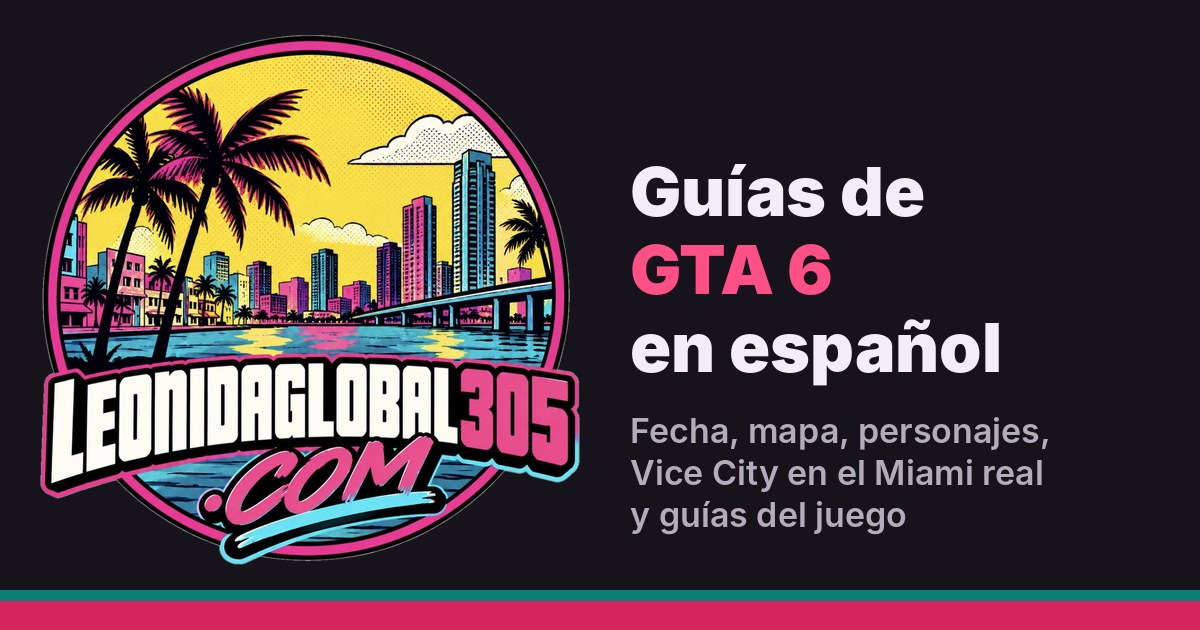
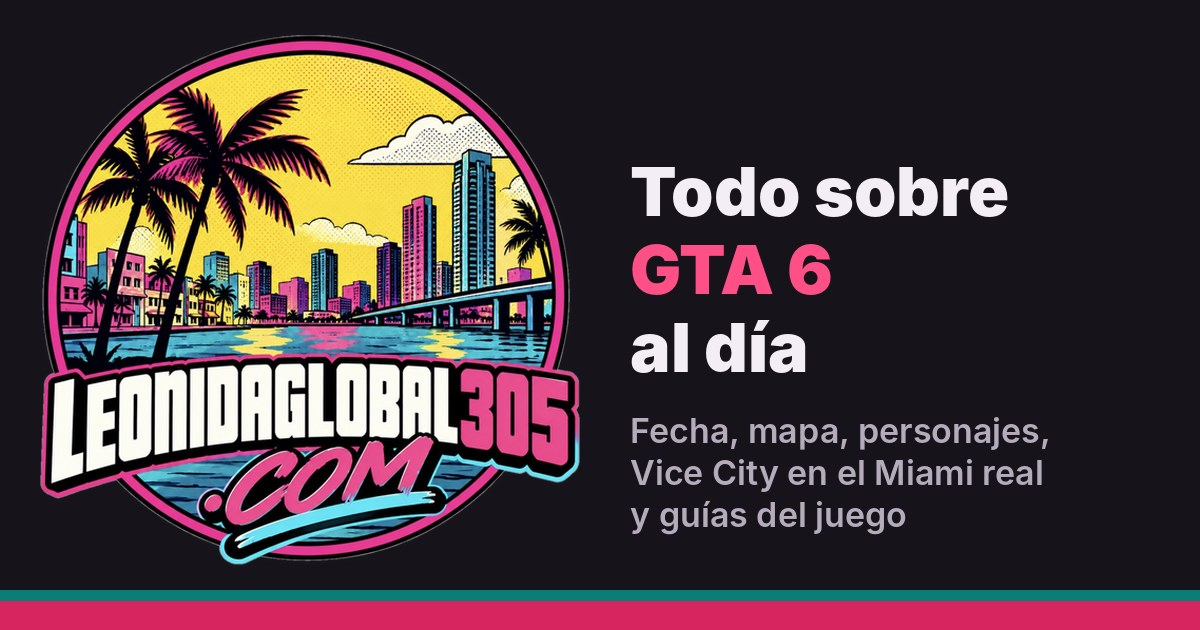
Quitar las menciones a 'en español' del sitio
Claude-Session: https://claude.ai/code/session_01BTEKrURhjZRdHEbAFFazb8

Changed region(s): [[0.5242, 0.2413, 0.8633, 0.3619], [0.5242, 0.5127, 0.8325, 0.6333]]

diff --git a/index.html b/index.html
@@ -1,4 +1,4 @@
-<!doctype html><html lang="es"><head><meta charset="utf-8"><meta name="viewport" content="width=device-width,initial-scale=1,viewport-fit=cover"><title>Leonida Global 305</title><meta name="claude:viewport-fit-sides" content="cover"><meta name="description" content="Guías de GTA 6 en español: fecha, precio, mapa de Leonida y personajes."><link rel="canonical" href="https://leonidaglobal305.com/"><meta property="og:title" content="Leonida Global 305"><meta property="og:description" content="Guías de GTA 6 en español: fecha, precio, mapa de Leonida y personajes."><meta property="og:type" content="website"><meta property="og:locale" content="es_ES"><meta property="og:image" content="https://leonidaglobal305.com/img/og-image.jpg"><meta property="og:image:width" content="1200"><meta property="og:image:height" content="630"><meta property="og:site_name" content="Leonida Global 305"><meta property="og:url" content="https://leonidaglobal305.com/"><meta name="twitter:card" content="summary_large_image"><meta name="twitter:title" content="Leonida Global 305"><meta name="twitter:description" content="Guías de GTA 6 en español: fecha, precio, mapa de Leonida y personajes."><meta name="twitter:image" content="https://leonidaglobal305.com/img/og-image.jpg"><link rel="icon" href="favicon.ico" sizes="any"><link rel="icon" type="image/png" sizes="32x32" href="img/favicon-32.png"><link rel="apple-touch-icon" href="img/apple-touch-icon.png"><meta name="theme-color" content="#d7265f"><link rel="preconnect" href="https://fonts.googleapis.com"><link rel="stylesheet" href="https://fonts.googleapis.com/css2?family=Anton&family=Source+Sans+3:wght@400;600;700&family=JetBrains+Mono:wght@500&display=swap"><style>
+<!doctype html><html lang="es"><head><meta charset="utf-8"><meta name="viewport" content="width=device-width,initial-scale=1,viewport-fit=cover"><title>Leonida Global 305</title><meta name="claude:viewport-fit-sides" content="cover"><meta name="description" content="Guías de GTA 6: fecha, precio, mapa de Leonida, personajes, música y Vice City en el Miami real."><link rel="canonical" href="https://leonidaglobal305.com/"><meta property="og:title" content="Leonida Global 305"><meta property="og:description" content="Guías de GTA 6: fecha, precio, mapa de Leonida, personajes, música y Vice City en el Miami real."><meta property="og:type" content="website"><meta property="og:locale" content="es_ES"><meta property="og:image" content="https://leonidaglobal305.com/img/og-image.jpg"><meta property="og:image:width" content="1200"><meta property="og:image:height" content="630"><meta property="og:site_name" content="Leonida Global 305"><meta property="og:url" content="https://leonidaglobal305.com/"><meta name="twitter:card" content="summary_large_image"><meta name="twitter:title" content="Leonida Global 305"><meta name="twitter:description" content="Guías de GTA 6: fecha, precio, mapa de Leonida, personajes, música y Vice City en el Miami real."><meta name="twitter:image" content="https://leonidaglobal305.com/img/og-image.jpg"><link rel="icon" href="favicon.ico" sizes="any"><link rel="icon" type="image/png" sizes="32x32" href="img/favicon-32.png"><link rel="apple-touch-icon" href="img/apple-touch-icon.png"><meta name="theme-color" content="#d7265f"><link rel="preconnect" href="https://fonts.googleapis.com"><link rel="stylesheet" href="https://fonts.googleapis.com/css2?family=Anton&family=Source+Sans+3:wght@400;600;700&family=JetBrains+Mono:wght@500&display=swap"><style>
 /* Layout: cartel de carretera de Florida — titulares tipo billboard, columna de lectura estrecha, franja de "millas" para datos */
 :root{
   --bg:#fbf6f1; --surface:#ffffff; --fg:#1d1a22; --muted:#5f5966;
@@ -122,8 +122,8 @@ body{top:0!important}
   </div>
 </div></header>
 <main class="wrap">
-<span class="mile">Guías de GTA 6 en español</span>
-<h1>Todo GTA&nbsp;6, claro y en español</h1>
+<span class="mile">Guías de GTA 6</span>
+<h1>Todo GTA&nbsp;6, claro y al día</h1>
 <p class="lede">Fecha, precio, mapa de Leonida, personajes y, desde el día del lanzamiento, guías de misiones, robos, autos y secretos.</p>
 <div class="count" id="count" aria-live="polite">
   <div><b id="d">--</b><small>días</small></div>
@@ -162,7 +162,7 @@ body{top:0!important}
 </script></main>
 <footer><div class="wrap">
   <p class="autor">Creado por <strong>Ernesto</strong> · Síguelo en X: <a href="https://x.com/elchinyto_tech" target="_blank" rel="me noopener">@elchinyto_tech</a></p>
-  <p>Leonida Global 305 es un sitio de fans en español. No está afiliado a Rockstar Games ni a Take-Two Interactive. Grand Theft Auto es marca de sus dueños.</p>
+  <p>Leonida Global 305 es un sitio de fans. No está afiliado a Rockstar Games ni a Take-Two Interactive. Grand Theft Auto es marca de sus dueños.</p>
   <p>Algunos enlaces son de afiliado: si compras a través de ellos, el sitio recibe una pequeña comisión sin costo extra para ti.</p>
 </div></footer>
 <div id="gt" aria-hidden="true"></div>

diff --git a/todo-lo-confirmado.html b/todo-lo-confirmado.html
@@ -280,7 +280,7 @@ body{top:0!important}
 </aside><p class="creditos">Información basada en: IGN, Famitsu, Kinda Funny, Game Informer, Dazed, LOVE, Bloomberg (Jason Schreier), GTAVice.net, iGrandTheftAuto, Inven Global.</p></main>
 <footer><div class="wrap">
   <p class="autor">Creado por <strong>Ernesto</strong> · Síguelo en X: <a href="https://x.com/elchinyto_tech" target="_blank" rel="me noopener">@elchinyto_tech</a></p>
-  <p>Leonida Global 305 es un sitio de fans en español. No está afiliado a Rockstar Games ni a Take-Two Interactive. Grand Theft Auto es marca de sus dueños.</p>
+  <p>Leonida Global 305 es un sitio de fans. No está afiliado a Rockstar Games ni a Take-Two Interactive. Grand Theft Auto es marca de sus dueños.</p>
   <p>Algunos enlaces son de afiliado: si compras a través de ellos, el sitio recibe una pequeña comisión sin costo extra para ti.</p>
 </div></footer>
 <div id="gt" aria-hidden="true"></div>

diff --git a/mapa-miami-real.html b/mapa-miami-real.html
@@ -175,7 +175,7 @@ body{top:0!important}
 </script><p class="creditos">Información basada en: GTA BOOM, Miami New Times, Kotaku, VGC, GamesRadar, Portal Viciados y @samchrme.</p></main>
 <footer><div class="wrap">
   <p class="autor">Creado por <strong>Ernesto</strong> · Síguelo en X: <a href="https://x.com/elchinyto_tech" target="_blank" rel="me noopener">@elchinyto_tech</a></p>
-  <p>Leonida Global 305 es un sitio de fans en español. No está afiliado a Rockstar Games ni a Take-Two Interactive. Grand Theft Auto es marca de sus dueños.</p>
+  <p>Leonida Global 305 es un sitio de fans. No está afiliado a Rockstar Games ni a Take-Two Interactive. Grand Theft Auto es marca de sus dueños.</p>
   <p>Algunos enlaces son de afiliado: si compras a través de ellos, el sitio recibe una pequeña comisión sin costo extra para ti.</p>
 </div></footer>
 <div id="gt" aria-hidden="true"></div>

diff --git a/fecha-precio-ediciones.html b/fecha-precio-ediciones.html
@@ -185,7 +185,7 @@ body{top:0!important}
 </aside><p class="creditos">Información basada en: Rockstar Games, Take-Two Interactive, Gfinity, tbreak, SVG, GTA Intel.</p></main>
 <footer><div class="wrap">
   <p class="autor">Creado por <strong>Ernesto</strong> · Síguelo en X: <a href="https://x.com/elchinyto_tech" target="_blank" rel="me noopener">@elchinyto_tech</a></p>
-  <p>Leonida Global 305 es un sitio de fans en español. No está afiliado a Rockstar Games ni a Take-Two Interactive. Grand Theft Auto es marca de sus dueños.</p>
+  <p>Leonida Global 305 es un sitio de fans. No está afiliado a Rockstar Games ni a Take-Two Interactive. Grand Theft Auto es marca de sus dueños.</p>
   <p>Algunos enlaces son de afiliado: si compras a través de ellos, el sitio recibe una pequeña comisión sin costo extra para ti.</p>
 </div></footer>
 <div id="gt" aria-hidden="true"></div>

diff --git a/equipo-gta-6.html b/equipo-gta-6.html
@@ -173,7 +173,7 @@ body{top:0!important}
 </div><p class="creditos">Información basada en: RTINGS, TechRadar, GamesRadar, Windows Central, Turtle Beach, PC Gamer.</p></main>
 <footer><div class="wrap">
   <p class="autor">Creado por <strong>Ernesto</strong> · Síguelo en X: <a href="https://x.com/elchinyto_tech" target="_blank" rel="me noopener">@elchinyto_tech</a></p>
-  <p>Leonida Global 305 es un sitio de fans en español. No está afiliado a Rockstar Games ni a Take-Two Interactive. Grand Theft Auto es marca de sus dueños.</p>
+  <p>Leonida Global 305 es un sitio de fans. No está afiliado a Rockstar Games ni a Take-Two Interactive. Grand Theft Auto es marca de sus dueños.</p>
   <p>Algunos enlaces son de afiliado: si compras a través de ellos, el sitio recibe una pequeña comisión sin costo extra para ti.</p>
 </div></footer>
 <div id="gt" aria-hidden="true"></div>

diff --git a/musica-radios-gta-6.html b/musica-radios-gta-6.html
@@ -166,7 +166,7 @@ body{top:0!important}
 </aside><p class="creditos">Información basada en: Rockstar Games, Forbes, Kotaku, Consequence, G2A News.</p></main>
 <footer><div class="wrap">
   <p class="autor">Creado por <strong>Ernesto</strong> · Síguelo en X: <a href="https://x.com/elchinyto_tech" target="_blank" rel="me noopener">@elchinyto_tech</a></p>
-  <p>Leonida Global 305 es un sitio de fans en español. No está afiliado a Rockstar Games ni a Take-Two Interactive. Grand Theft Auto es marca de sus dueños.</p>
+  <p>Leonida Global 305 es un sitio de fans. No está afiliado a Rockstar Games ni a Take-Two Interactive. Grand Theft Auto es marca de sus dueños.</p>
   <p>Algunos enlaces son de afiliado: si compras a través de ellos, el sitio recibe una pequeña comisión sin costo extra para ti.</p>
 </div></footer>
 <div id="gt" aria-hidden="true"></div>

diff --git a/personajes.html b/personajes.html
@@ -155,7 +155,7 @@ body{top:0!important}
 </aside><p class="creditos">Información basada en: Rockstar Games, TechRadar, PC Gamer, Dazed, LOVE.</p></main>
 <footer><div class="wrap">
   <p class="autor">Creado por <strong>Ernesto</strong> · Síguelo en X: <a href="https://x.com/elchinyto_tech" target="_blank" rel="me noopener">@elchinyto_tech</a></p>
-  <p>Leonida Global 305 es un sitio de fans en español. No está afiliado a Rockstar Games ni a Take-Two Interactive. Grand Theft Auto es marca de sus dueños.</p>
+  <p>Leonida Global 305 es un sitio de fans. No está afiliado a Rockstar Games ni a Take-Two Interactive. Grand Theft Auto es marca de sus dueños.</p>
   <p>Algunos enlaces son de afiliado: si compras a través de ellos, el sitio recibe una pequeña comisión sin costo extra para ti.</p>
 </div></footer>
 <div id="gt" aria-hidden="true"></div>

diff --git a/mapa-leonida.html b/mapa-leonida.html
@@ -151,7 +151,7 @@ body{top:0!important}
 </aside><p class="creditos">Información basada en: Rockstar Games, LOVE, Beebom, All Things How.</p></main>
 <footer><div class="wrap">
   <p class="autor">Creado por <strong>Ernesto</strong> · Síguelo en X: <a href="https://x.com/elchinyto_tech" target="_blank" rel="me noopener">@elchinyto_tech</a></p>
-  <p>Leonida Global 305 es un sitio de fans en español. No está afiliado a Rockstar Games ni a Take-Two Interactive. Grand Theft Auto es marca de sus dueños.</p>
+  <p>Leonida Global 305 es un sitio de fans. No está afiliado a Rockstar Games ni a Take-Two Interactive. Grand Theft Auto es marca de sus dueños.</p>
   <p>Algunos enlaces son de afiliado: si compras a través de ellos, el sitio recibe una pequeña comisión sin costo extra para ti.</p>
 </div></footer>
 <div id="gt" aria-hidden="true"></div>

diff --git a/leaks-cyberleek.html b/leaks-cyberleek.html
@@ -183,7 +183,7 @@ body{top:0!important}
 </aside><p class="creditos">Información basada en: Dexerto, iGeeksBlog, Tech Insider, BBC.</p></main>
 <footer><div class="wrap">
   <p class="autor">Creado por <strong>Ernesto</strong> · Síguelo en X: <a href="https://x.com/elchinyto_tech" target="_blank" rel="me noopener">@elchinyto_tech</a></p>
-  <p>Leonida Global 305 es un sitio de fans en español. No está afiliado a Rockstar Games ni a Take-Two Interactive. Grand Theft Auto es marca de sus dueños.</p>
+  <p>Leonida Global 305 es un sitio de fans. No está afiliado a Rockstar Games ni a Take-Two Interactive. Grand Theft Auto es marca de sus dueños.</p>
   <p>Algunos enlaces son de afiliado: si compras a través de ellos, el sitio recibe una pequeña comisión sin costo extra para ti.</p>
 </div></footer>
 <div id="gt" aria-hidden="true"></div>

diff --git a/_fuente/build.py b/_fuente/build.py
@@ -158,7 +158,7 @@ def shell(slug, title, desc, body, full_doc=True):
 <main class="wrap">{body}</main>
 <footer><div class="wrap">
   <p class="autor">Creado por <strong>Ernesto</strong> · Síguelo en X: <a href="https://x.com/elchinyto_tech" target="_blank" rel="me noopener">@elchinyto_tech</a></p>
-  <p>{SITE} es un sitio de fans en español. No está afiliado a Rockstar Games ni a Take-Two Interactive. Grand Theft Auto es marca de sus dueños.</p>
+  <p>{SITE} es un sitio de fans. No está afiliado a Rockstar Games ni a Take-Two Interactive. Grand Theft Auto es marca de sus dueños.</p>
   <p>Algunos enlaces son de afiliado: si compras a través de ellos, el sitio recibe una pequeña comisión sin costo extra para ti.</p>
 </div></footer>
 <div id="gt" aria-hidden="true"></div>
@@ -216,8 +216,8 @@ COLECCIONISTA = """
 
 # ---------- Inicio ----------
 index = f"""
-<span class="mile">Guías de GTA 6 en español</span>
-<h1>Todo GTA&nbsp;6, claro y en español</h1>
+<span class="mile">Guías de GTA 6</span>
+<h1>Todo GTA&nbsp;6, claro y al día</h1>
 <p class="lede">Fecha, precio, mapa de Leonida, personajes y, desde el día del lanzamiento, guías de misiones, robos, autos y secretos.</p>
 <div class="count" id="count" aria-live="polite">
   <div><b id="d">--</b><small>días</small></div>
@@ -792,7 +792,7 @@ pages = {
     "equipo-gta-6.html": (equipo, "Equipo para GTA 6: teles, monitores y SSD | Leonida Global 305", "Las mejores teles, monitores, SSD y accesorios para jugar GTA 6, con opciones económicas y de gama alta.", True),
     "leaks-cyberleek.html": (leaks, "Leaks de GTA 6 de CyberLeek | Leonida Global 305", "Cronología de los leaks de GTA 6 de CyberLeek, qué detalles confirmó Rockstar después y cómo terminó la filtración.", True),
     "todo-lo-confirmado.html": (conf, "GTA 6: todo lo confirmado | Leonida Global 305", "Todos los detalles de GTA 6 confirmados por Rockstar a IGN, Famitsu, Game Informer, Dazed, LOVE, Bloomberg y en el Extended Look.", True),
-    "index.html": (index, "Leonida Global 305", "Guías de GTA 6 en español: fecha, precio, mapa de Leonida y personajes.", False),
+    "index.html": (index, "Leonida Global 305", "Guías de GTA 6: fecha, precio, mapa de Leonida, personajes, música y Vice City en el Miami real.", False),
     "fecha-precio-ediciones.html": (fecha, "GTA 6: fecha, precio y ediciones | Leonida Global 305", "GTA 6 sale el 19 de noviembre de 2026. Precio de la edición estándar y Ultimate, precarga y qué incluye cada una.", True),
     "mapa-leonida.html": (mapa, "Mapa de GTA 6: regiones de Leonida | Leonida Global 305", "Las seis regiones confirmadas del mapa de GTA 6 y su inspiración real en Florida.", True),
     "personajes.html": (pers, "Personajes de GTA 6 | Leonida Global 305", "Jason Duval, Lucia Caminos y todos los personajes confirmados de GTA 6.", True),
